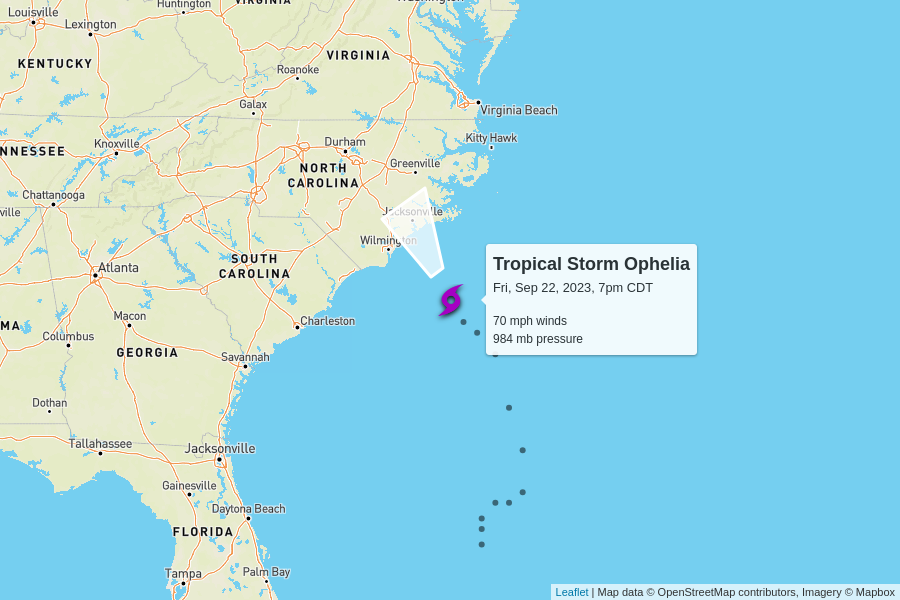
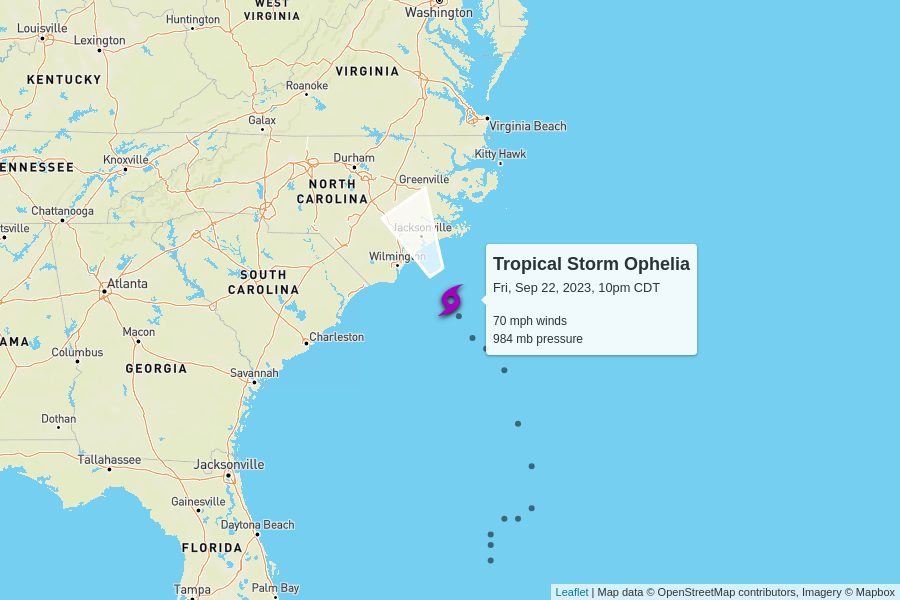
automatic update

diff --git a/docs/index.html b/docs/index.html
@@ -102,7 +102,7 @@
         <td colspan="6" class="storm category-0" >
           <h2>
             Tropical Storm Ophelia
-            <p class="updated">last updated <span data-time>2023-09-23T00:00:00.000Z</span></p>
+            <p class="updated">last updated <span data-time>2023-09-23T03:00:00.000Z</span></p>
           </h2>
         </td>
       </tr>
@@ -118,7 +118,7 @@
       <tr>
         <td class="spacer"></td>
         <td>70 mph<br>0 mph since last update</td>
-        <td>984 mb<br>-2 mb since last update</td>
+        <td>984 mb<br>0 mb since last update</td>
         <td>
           12 mph to the north-northwest
           <br/>
